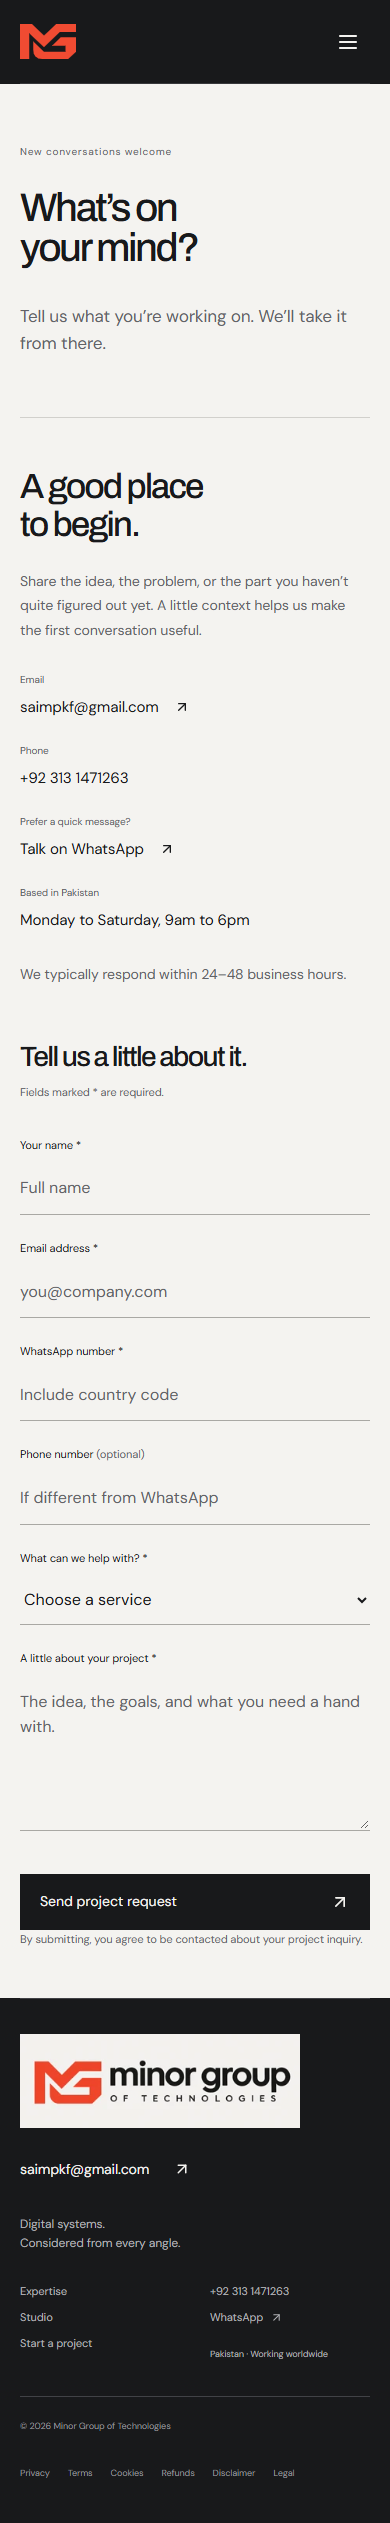
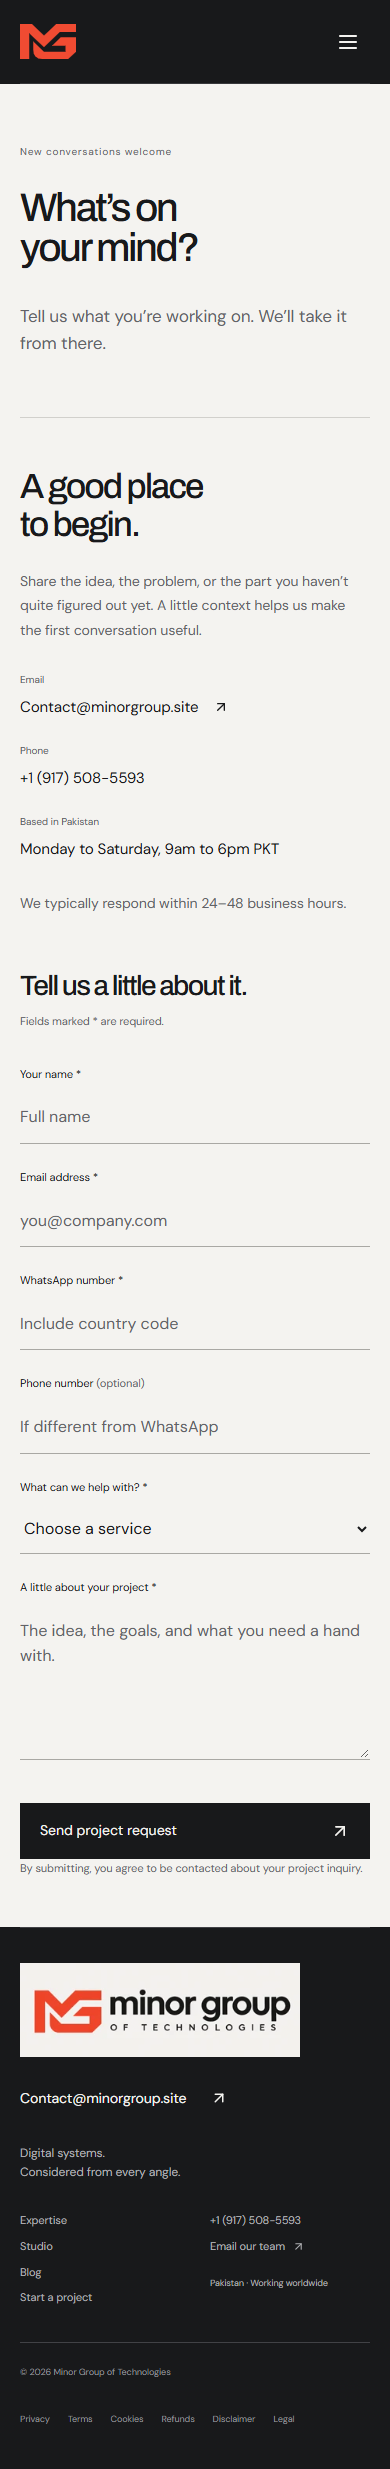
New update

diff --git a/docs/BLOG-AND-CONTACT-UPDATE.md b/docs/BLOG-AND-CONTACT-UPDATE.md
@@ -1,0 +1,27 @@
+# Company contacts and US-focused journal
+
+Completed November 14, 2026 in the local frontend.
+
+- Company phone: +1 (917) 508-5593 (`tel:+19175085593`).
+- Company email: Contact@minorgroup.site.
+- Shared contact source: `src/data/company.js`; used by contact UI, footer and Organization structured data. Existing legal contact text also updated.
+- The US phone is a contact number. No US office, street address or client history was asserted. Existing Pakistan location and explicitly labeled PKT business hours remain.
+- Removed the old company WhatsApp links; no WhatsApp registration for the new phone was assumed. The form's customer WhatsApp field remains unchanged.
+- Visible email changes do not provision a mailbox or change the recipient settings of the existing Formspree account. Submission checks were mocked and sent no external inquiry.
+
+## Articles
+
+1. `/blog/custom-software-development-usa-guide`: Custom Software Development for US Small Businesses: A Buyer’s Guide. Approximately1,200 words, nine sections, six-minute read. Practical build/buy comparison, discovery, integration, access, proposal, delivery and handoff guidance. NIST source cited for security recommendations.
+2. `/blog/business-website-development-usa-guide`: Business Website Development for US Companies: A Planning Guide. Approximately1,200 words, nine sections, six-minute read. Customer journeys, content planning, proposals, accessibility, performance, technical SEO, ownership and launch. Official Google/W3C sources cited; Dallas example explicitly hypothetical.
+
+Both articles use organization authorship, actual creation date, US English and relevant service/contact/cross-article links. There are no fabricated costs, outcomes or ranking promises.
+
+The index is linked from the navbar, footer and homepage. All three new pages are prerendered. Canonicals, unique metadata, Blog/BlogPosting and breadcrumb graphs, and individual1200×630 sharing cards were added. The production sitemap is now generated from the shared route list during the build.
+
+## Validation
+
+`npm run build` passed:18 public HTML pages plus404. The full SEO regression suite passed JavaScript-disabled HTML, metadata/schema, canonical/sitemap, internal link,404, hydration and mocked form checks. One immediate title assertion in the test was made deterministic by waiting for client navigation to settle; the passing report is `docs/seo-evidence/report.json`.
+
+`node scripts/verify-blog.mjs` passed at1440,768,390 and360px. No page-level horizontal overflow; wide tables scroll within their own labeled region. Article contents links and mobile Blog navigation work. Company contact UI/links match the supplied values. Screenshots and report are in `docs/blog-evidence/` and were visually reviewed.
+
+This is a local implementation. Public deployment, search indexing and mailbox delivery were not tested.

diff --git a/README.md b/README.md
@@ -13,10 +13,14 @@ Deploy `dist/` using the supplied `vercel.json`. Run the full npm build command;
 
 ## SEO and content
 
-Route metadata and structured data live in `src/seo/site.js`. The build and client navigation use the same renderer. When adding a public route, update App routing, SEO records together. The build generates the production sitemap from those records; the SEO regression checks confirm agreement.
+Route metadata and structured data live in `src/seo/site.js`. The build and client navigation use the same renderer. When adding a public route, update App routing and SEO records together. The build generates the production sitemap from those records; the SEO regression checks confirm agreement.
 
 The preferred origin is `https://minorgroup.site`. Vercel configuration redirects only `www.minorgroup.site` to that origin. Confirm the hosting account has no opposite domain redirect before deploying.
 
 See [the SEO audit](docs/SEO-AUDIT.md) and [test results](docs/seo-evidence/report.json). Local tests do not establish production indexing, real-user Core Web Vitals, or Search Console ownership.
 
 The inquiry form uses the existing Formspree endpoint, with an optional `VITE_FORMSPREE_ENDPOINT` override. Automated checks intercept submission; they do not send a real project inquiry.
+
+## Journal and company contacts
+
+Company details are centralized in src/data/company.js. Journal content lives in src/data/blog/ and is collected in src/data/blog.js. Add a new article there using the existing content shape; the SEO route list and production sitemap derive article routes automatically. Run npm run build, npm run preview and npm run test:blog after changes. See docs/BLOG-AND-CONTACT-UPDATE.md for implementation notes.
